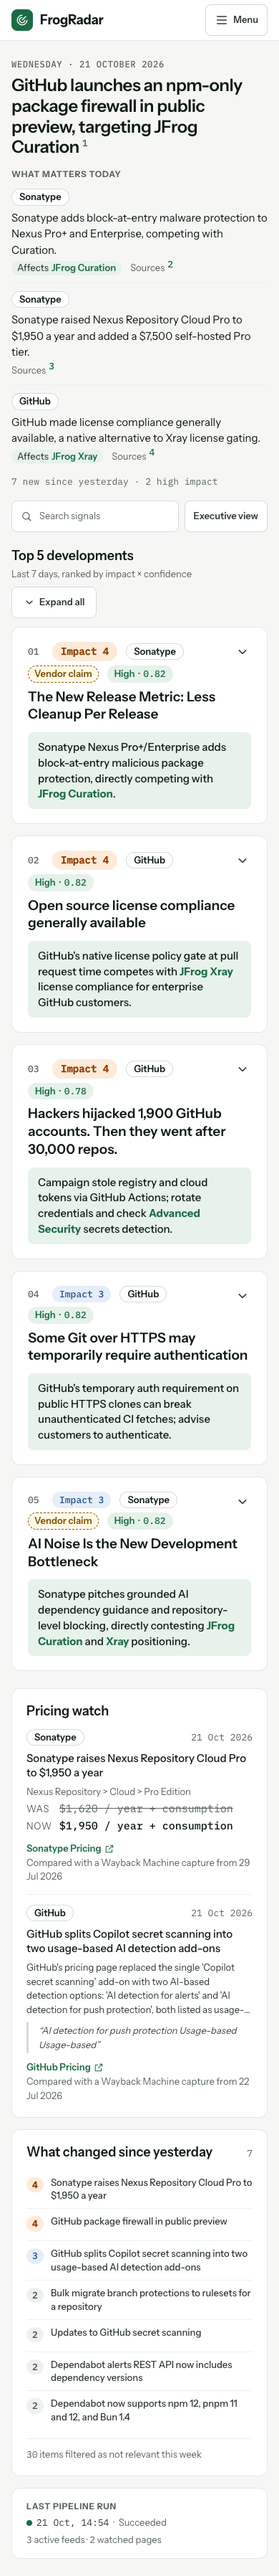
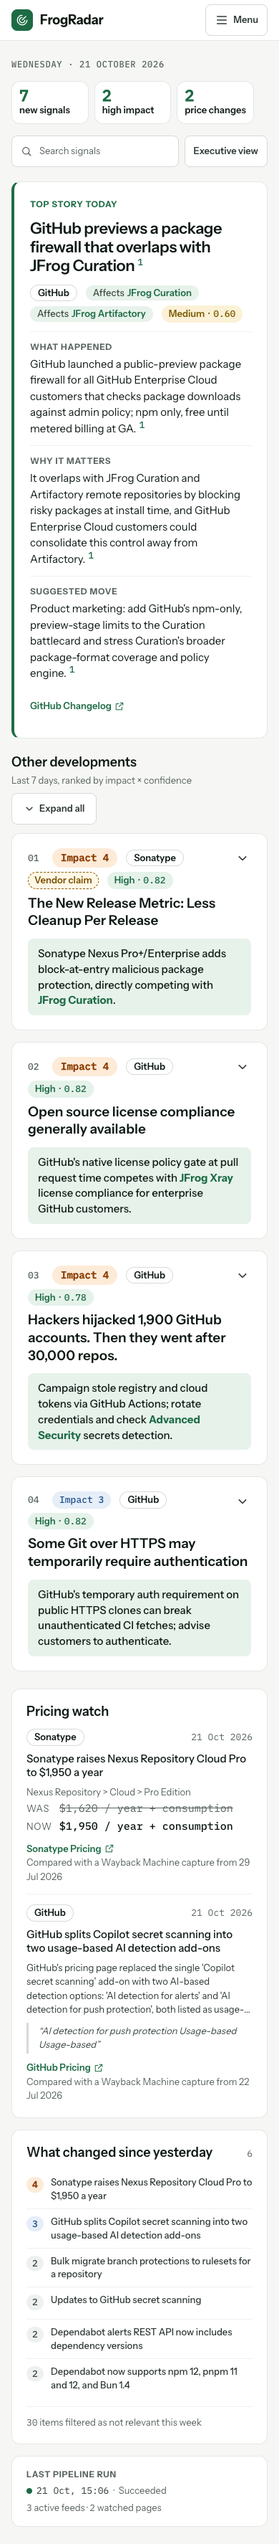
README: one-story Brief, D56; screenshots retaken

diff --git a/README.md b/README.md
@@ -368,23 +368,26 @@ side by side.
 
 ![Morning Brief at 1440 px](docs/screenshots/brief-1440.png)
 
-The first screen (`/`): the top 5 developments of the last 7 days, ranked by impact × confidence. Each card starts
-collapsed: impact, company, title, confidence and the takeaway (one sentence written at enrichment, naming the
-affected JFrog product; highlighted). The headline at the top is the daily brief's; below it "What matters today" lists up to 3 points,
-each with the company, the JFrog products it names ("Affects …") and numbered links to the signals it relies on
-(long sentences are clamped to two lines). Expanding a card (chevron, header row, or "Expand all") shows the summary, the full
-"Why JFrog cares", the verbatim evidence quote, the source link and actions; expanded cards are remembered for the
-session only. The right rail shows the pricing watch (latest change per watched pricing page, highest impact
-first, compared with a Wayback Machine capture), what else was published since yesterday (without repeating the
-Top 5), how many items were filtered as not relevant, and the last pipeline run. "Executive view" turns the list
-into rank, title and takeaway only, remembered per browser. At phone width the sidebar becomes a top bar with a
-Menu button and the rail drops below the cards ([390 px screenshot](docs/screenshots/brief-390.png)).
+The first screen (`/`) tells one story once:
+- **Stat tiles:** new signals since yesterday, how many are high impact (4-5), price changes in the last 7 days;
+  each opens the Signals list with that filter.
+- **Top story today:** a plain-language title, then *What happened*, *Why it matters* (for JFrog) and a
+  *Suggested move* for a JFrog team, each with numbered links to its sources, plus company, affected JFrog
+  product and confidence. It comes from the daily brief; without one (or when its sources stop checking out) the
+  top-ranked signal is shown instead (title, summary, takeaway, no suggested move).
+- **Other developments:** the next 4 ranked signals (impact × confidence), without the top story's signals, as
+  collapsible cards (takeaway first; expand for summary, "Why JFrog cares", evidence and actions).
+- **Right rail:** pricing watch (old and new price on aligned lines), what else was published since yesterday,
+  filtered count, last pipeline run.
+
+"Executive view" shows only the tiles and the top story, remembered per browser. At phone width the sidebar becomes
+a top bar with a Menu button and the rail drops below the cards ([390 px screenshot](docs/screenshots/brief-390.png)).
 
 Read API (FastAPI, `backend/app/api/`, OpenAPI at `/docs`):
 
 | Endpoint | Returns |
 |---|---|
-| `GET /api/brief?days=7&limit=5` | top signals, since yesterday, filtered count, pricing watch, last run, headline |
+| `GET /api/brief?days=7&limit=4` | stats, top story, other developments, since yesterday, filtered count, pricing watch, last run |
 | `GET /api/signals` | filters `entity` (slug, a company includes its products), `category`, `min_impact`, `relevant`, `since`, `until`, `q` (full text), `page`, `page_size` |
 | `GET /api/signals/{id}` | one signal |
 | `GET /api/entities` | tracked companies with signal counts |
@@ -404,8 +407,9 @@ http://localhost:4200. Frontend tests: `npm run test:ci` (headless Chrome).
 
 Two pipeline nodes after `score`, on the synthesis model. The pattern: **the LLM proposes, code verifies**.
 
-- **Daily brief** (once per UTC day): the top 12 signals of the last 7 days → a headline (≤ 90 chars) and 3 points
-  of at most 110 characters for "What matters today" (`daily_brief.v2`). Stored as a `reports` row (`daily_brief`).
+- **Daily brief** (once per UTC day): the top 12 signals of the last 7 days → one top story: a plain title
+  (≤ 90 chars, no claims about intent), what happened, why it matters for JFrog and a suggested move
+  (`daily_brief.v3`). Title, what happened and why are required; a suggested move that fails a check is left out. Stored as a `reports` row (`daily_brief`).
 - **Battlecards** (per competitor with signals *about* it; weekly, or when a new impact ≥ 4 signal arrives):
   positioning, strengths, weaknesses, opportunities and blind spots for JFrog, plus capability levels. Stored as a
   `reports` row (`battlecard`); accepted levels go to `capability_matrix` with their evidence signal.
@@ -534,6 +538,7 @@ Each line: what we chose – why – what we rejected.
 - **D47 Read API: one "visible" filter** – a signal is shown only if in scope, canonical and enriched; one `SignalOut` DTO without raw_text/meta/embedding (tested on every endpoint and in the OpenAPI schema); unverified quotes flagged and hidden in the UI; brief ranks verified signals by impact × confidence; "since yesterday" goes by publish date – rejected per-endpoint field filtering and fetched_at for "new".
 - **D48 Deterministic price pairs** – the pricing watch pairs `[before]`/`[after]` price lines from the stored diff only when unambiguous (same or uniquely matching section label, one price per line); otherwise it shows the summary and verified quote – rejected an LLM extraction step and fuzzy matching.
 - **D49 Design tokens + CDK** – every color/type/spacing value is a CSS custom property in `tokens.css` (lint fails on stray colors); small standalone components; Angular Material only where it saves work, themed with the tokens – rejected restyling Material defaults and Tailwind.
+- **D56 One top story on the Brief** – the home screen led with a headline, 3 points and a Top 5 that told the same story three times; now stat tiles, one top story (what happened / why it matters / suggested move, every row cited and verified) and other developments without the story's signals – rejected keeping the points under the headline.
 - **D55 Discontinued products** – `discontinued: {end_of_life, source}` in `competitors.yaml` (JFrog Pipelines, EOL 2026-05-01); prompts list them apart with a never-recommend rule and the UI doesn't highlight them – rejected deleting the entity (old signals link to it) and a full re-enrichment.
 - **D54 Battlecards + capability matrix** – one synthesis call per competitor with signals about it, weekly or on a new impact ≥ 4 signal; levels need a primary evidence signal and pass the verify model; JFrog's own levels from config with a doc link per level (unknown where no doc) – rejected LLM-written JFrog levels and levels from the model's general knowledge.
 - **D53 Synthesis with code-checked citations + a second-model check** – one invalid id drops the whole sentence; the verify model (other family) keeps only `supported` items; one brief per UTC day – rejected keeping the valid ids of a partly invalid citation, and trusting citation ids without checking the claim.
